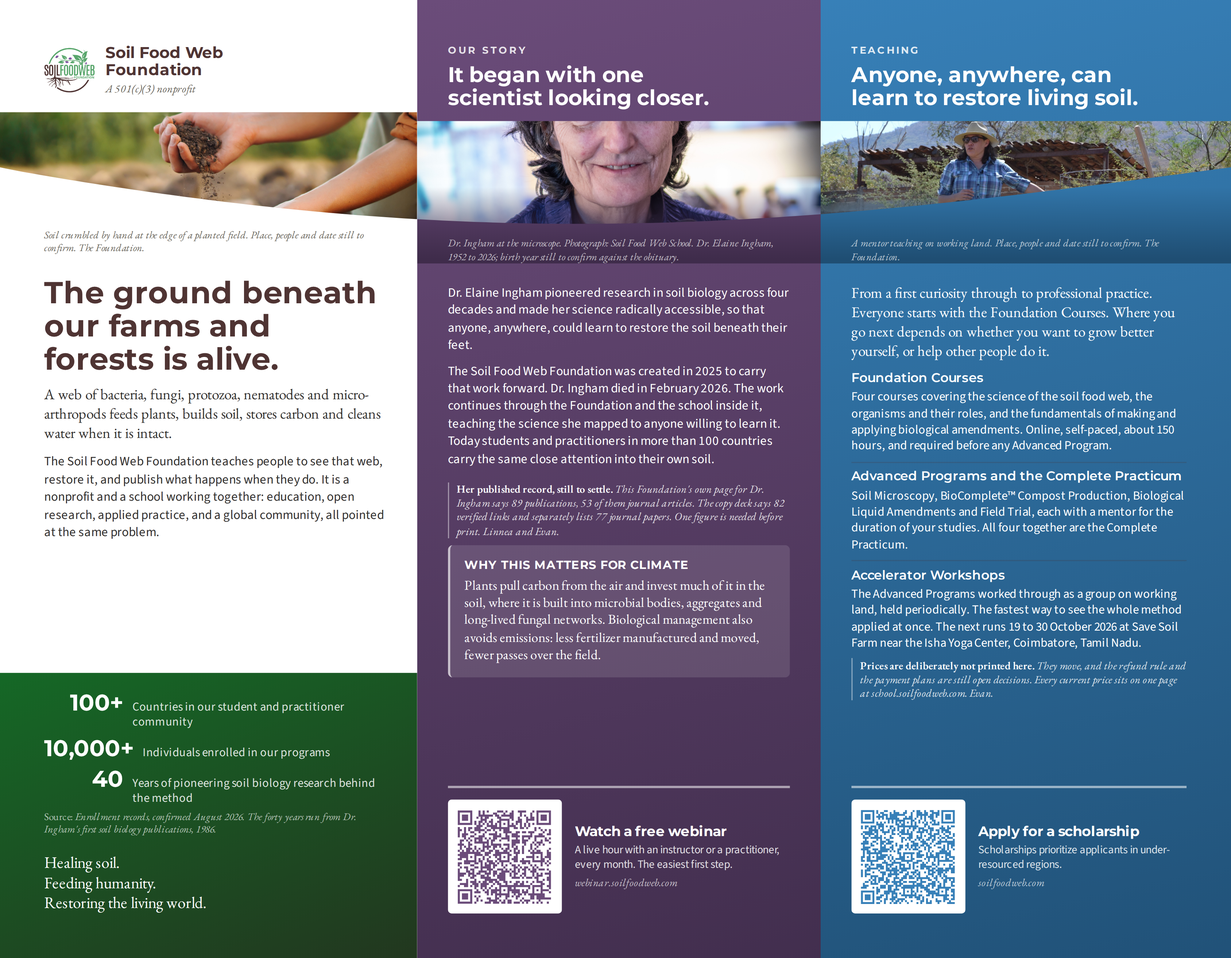
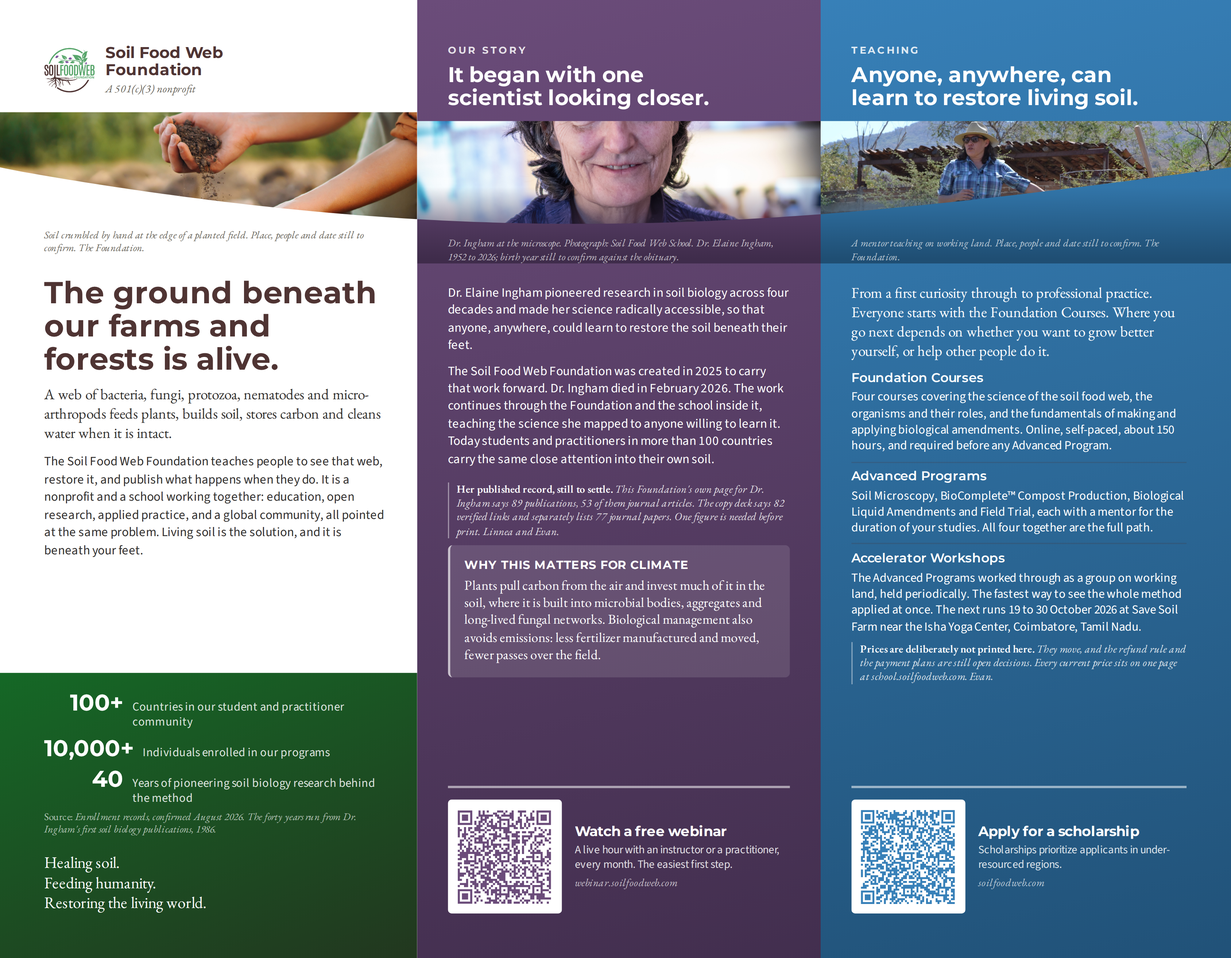
Bring the trifold and site into line with the Messaging House
Applies section 7 of the board's Messaging House v1.0, which supersedes the
Approved Phrases page of the 2026 Brand Style Guide.

Internal vocabulary out of public text (7.3). "Complete Practicum" is listed
alongside FC, AP and PDC as in-course vocabulary, so the descriptive uses are
gone: the trifold's Advanced Programs heading and its closing sentence, the
cost line and the titles gloss on learn.html, and the directory explanation.

The acronym out of running text (7.3). Four uses of "SFW" inside two team
biographies now read "Soil Food Web" or "soil food web". The production note on
that page had flagged them and is updated to say they are done.

The core idea added (3.1). "Living soil is the solution" appeared nowhere in
the repository, not on a page, not in the trifold, not in the copy deck. It now
closes the cover's argument, which is where the Master Narrative itself puts it
and what 3.3 asks for: the tagline stays the banner on the cover, the core idea
disciplines the argument underneath. The Master Narrative's em dash becomes a
comma, per the project rules.

Checked and deliberately not changed:

- "certified" in about-team.html is inside a hidden production note that quotes
  the old banned wording to record what was corrected. Quoting the rule is not
  breaking it.
- "Complete Practicum" survives where it names the bundle you actually buy: the
  pathway grid links to school.soilfoodweb.com/bundles/complete-practicum and
[…]

diff --git a/about-team.html b/about-team.html
@@ -233,7 +233,7 @@
 
   <section class="stratum stratum--deep" aria-labelledby="g-founder">
     <div class="wrap">
-      <p class="todo" data-status="verify">These biographies came over word for word from soilfoodweb.com. The wording that broke the 2026 copy rules has been corrected here: "certified consultant" and "Certified Lab-Tech" now name the earned titles, the acreage figures are gone, and the role labels no longer use the "SFW" acronym. Two sentences inside bios still use it in running text. Nobody has re-approved these edits with their subjects, and none of the bios has been rewritten for the new site; the Foundation should confirm each one with the person it describes. Evan and Stephanie.</p>
+      <p class="todo" data-status="verify">These biographies came over word for word from soilfoodweb.com. The wording that broke the 2026 copy rules has been corrected here: "certified consultant" and "Certified Lab-Tech" now name the earned titles, the acreage figures are gone, and the role labels no longer use the "SFW" acronym. The running-text uses inside the bios have been replaced with "Soil Food Web" and "soil food web" as well, on 15 September, per the Messaging House section 7.3. Nobody has re-approved these edits with their subjects, and none of the bios has been rewritten for the new site; the Foundation should confirm each one with the person it describes. Evan and Stephanie.</p>
       <div class="head"><h2 id="g-founder">Founder</h2></div>
       <div class="grid">
         <div class="span-3">
@@ -383,7 +383,7 @@
           <div class="card__media card__media--square"><div class="initial-block">AÜ</div></div>
           <h3 class="card__title">Ayşen Üstünay</h3>
           <p class="card__line" style="color:var(--soil);font-family:var(--serif);font-size:var(--t1)">Soil Food Web Consultant and mentor</p>
-          <details class="bio"><summary>Read bio</summary><p>With 25 years in international trade, Ayşen Üstünay built a corporate career in Sales, Marketing, and Strategy. Early health issues inspired a search for self-understanding and body awareness, leading her toward healthy nutrition. Despite an intense urban lifestyle, she maintained a strong connection to the soil, using every chance to grow her own food, which ultimately restored his health. This personal transformation sparked a deeper curiosity about soil and health. After conventional sources fell short of providing answers, a footnote in a book led her to Dr. Elaine Ingham and Soil Food Web (SFW) training. Through SFW practices, she found the answers she sought and discovered the holistic cycle connecting soil, health, and all living things. This journey has transformed her worldview and continues to shape it. She now sees working with microorganisms as a powerful, enjoyable, and distinctive approach for creating positive change in both personal and global health.</p></details>
+          <details class="bio"><summary>Read bio</summary><p>With 25 years in international trade, Ayşen Üstünay built a corporate career in Sales, Marketing, and Strategy. Early health issues inspired a search for self-understanding and body awareness, leading her toward healthy nutrition. Despite an intense urban lifestyle, she maintained a strong connection to the soil, using every chance to grow her own food, which ultimately restored his health. This personal transformation sparked a deeper curiosity about soil and health. After conventional sources fell short of providing answers, a footnote in a book led her to Dr. Elaine Ingham and Soil Food Web training. Through those practices, she found the answers she sought and discovered the holistic cycle connecting soil, health, and all living things. This journey has transformed her worldview and continues to shape it. She now sees working with microorganisms as a powerful, enjoyable, and distinctive approach for creating positive change in both personal and global health.</p></details>
         </li>
         <li class="card" data-kind="practitioner">
           <div class="card__media card__media--square"><div class="initial-block">AA</div></div>
@@ -468,7 +468,7 @@
           <div class="card__media card__media--square"><div class="initial-block">IP</div></div>
           <h3 class="card__title">Ib Borup Pedersen</h3>
           <p class="card__line" style="color:var(--soil);font-family:var(--serif);font-size:var(--t1)">Farmer, Soil Food Web Consultant and mentor</p>
-          <details class="bio"><summary>Read bio</summary><p>Ib is a Danish farmer. He has worked in farming all his life and owned his own farm for 20 years, with 110 ha arable land, 9 ha of which were organic strawberries and a 500-sow pig unit. Since 2017, Ib has been a farmer / teacher at a Danish boarding school for 9 and 10 graders, where he runs the school’s 43 ha organic farm. He teaches organic farming, both practice and theory, and SFW methods to his students. He has done extensive work on SFW field trials for the last five years, both at the school, where some of the work has been done by the students, and on nearby farms. During this time, he has gained experience of using the SFW system through studies in arable crops, grazing fields, forage fields, strawberries, orchards and greenhouses. He has a good technical background and is working on getting systems up and running that can easily be put in place on organic, as well as conventional farms. His aim is to get Soil Food Web solutions brought out to farmers and growers in a practical and cost-effective way. As well as consulting Farmers and growers, he also produces extractors, and other equipment that are all aimed at making SFW work easier and cost efficient.</p></details>
+          <details class="bio"><summary>Read bio</summary><p>Ib is a Danish farmer. He has worked in farming all his life and owned his own farm for 20 years, with 110 ha arable land, 9 ha of which were organic strawberries and a 500-sow pig unit. Since 2017, Ib has been a farmer / teacher at a Danish boarding school for 9 and 10 graders, where he runs the school’s 43 ha organic farm. He teaches organic farming, both practice and theory, and soil food web methods to his students. He has done extensive work on soil food web field trials for the last five years, both at the school, where some of the work has been done by the students, and on nearby farms. During this time, he has gained experience of using the soil food web system through studies in arable crops, grazing fields, forage fields, strawberries, orchards and greenhouses. He has a good technical background and is working on getting systems up and running that can easily be put in place on organic, as well as conventional farms. His aim is to get Soil Food Web solutions brought out to farmers and growers in a practical and cost-effective way. As well as consulting Farmers and growers, he also produces extractors, and other equipment that are all aimed at making soil food web work easier and cost efficient.</p></details>
         </li>
         <li class="card" data-kind="practitioner">
           <div class="card__media card__media--square"><div class="initial-block">IS</div></div>

diff --git a/learn.html b/learn.html
@@ -411,7 +411,7 @@
       </table>
       </div>
       <p class="source small">Prices from school.soilfoodweb.com, checked 6 September 2026.</p>
-      <p style="margin-top:var(--s2);font-size:var(--t-1);color:var(--ink-soft)"><strong>Total path cost.</strong> Foundation Courses $4,999 + Complete Practicum $3,999 = <strong>$8,998</strong>, plus about $1,000 for a microscope and camera. Advanced Programs bought singly total $5,000; the Practicum saves $1,001.</p>
+      <p style="margin-top:var(--s2);font-size:var(--t-1);color:var(--ink-soft)"><strong>Total path cost.</strong> Foundation Courses $4,999 + all four Advanced Programs $3,999 = <strong>$8,998</strong>, plus about $1,000 for a microscope and camera. Advanced Programs bought singly total $5,000; the Practicum saves $1,001.</p>
     </div>
   </section>
 
@@ -447,7 +447,7 @@
         </li>
         <li class="entry">
           <span></span>
-          <div><h3 class="entry__t">What do the professional titles mean?</h3><p class="entry__line">Soil Food Web Consultant: completed the full Complete Practicum (all four Advanced Programs). Soil Food Web Lab-Tech: completed the Microscopy Advanced Program. Both titles are earned, and both appear in our professionals directory.</p></div>
+          <div><h3 class="entry__t">What do the professional titles mean?</h3><p class="entry__line">Soil Food Web Consultant: completed all four Advanced Programs. Soil Food Web Lab-Tech: completed the Microscopy Advanced Program. Both titles are earned, and both appear in our professionals directory.</p></div>
           <span></span>
         </li>
         <li class="entry">

diff --git a/Trifold Design/build/outside.html b/Trifold Design/build/outside.html
@@ -38,7 +38,8 @@
       <p>The Soil Food Web Foundation teaches people to see that web, restore
         it, and publish what happens when they do. It is a nonprofit and a
         school working together: education, open research, applied practice,
-        and a global community, all pointed at the same problem.</p>
+        and a global community, all pointed at the same problem. Living soil is
+        the solution, and it is beneath your feet.</p>
 
       <div class="spacer"></div>
 
@@ -137,11 +138,10 @@
             required before any Advanced Program.</p>
         </div>
         <div>
-          <h3>Advanced Programs and the Complete Practicum</h3>
+          <h3>Advanced Programs</h3>
           <p>Soil Microscopy, BioComplete&trade; Compost Production, Biological
             Liquid Amendments and Field Trial, each with a mentor for the
-            duration of your studies. All four together are the Complete
-            Practicum.</p>
+            duration of your studies. All four together are the full path.</p>
         </div>
         <div>
           <h3>Accelerator Workshops</h3>

diff --git a/directory.html b/directory.html
@@ -216,7 +216,7 @@
     <div class="wrap">
       <div class="head" style="margin-bottom:0">
         <h1>Find a professional</h1>
-        <p class="lede">Everyone listed here earned their title through assessed work in our programs. Soil Food Web Consultants completed the Complete Practicum, all four Advanced Programs. Soil Food Web Lab Technicians completed Soil Microscopy. Neither title is externally accredited. Lab technicians outnumber consultants two to one and are the more affordable first step if you want your soil assessed.</p>
+        <p class="lede">Everyone listed here earned their title through assessed work in our programs. Soil Food Web Consultants completed all four Advanced Programs. Soil Food Web Lab Technicians completed Soil Microscopy. Neither title is externally accredited. Lab technicians outnumber consultants two to one and are the more affordable first step if you want your soil assessed.</p>
       </div>
     </div>
   </section>
